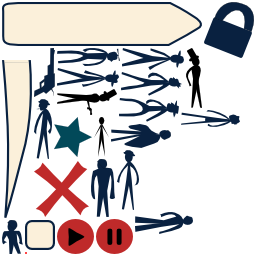
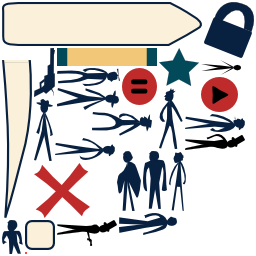
Add counters for hits

Changed region(s): [[0.125, 0.1875, 0.9688, 1.0]]

diff --git a/assets/duelist.json.js b/assets/duelist.json.js
@@ -2,5 +2,5 @@ goog.provide('lime.ASSETS.duelist.json');
 goog.require('soy');
 
 lime.ASSETS.duelist.json.data = function(opt_data) { 
-return JSON.parse("{\"frames\":{\"antag01.png\":{\"trimmed\":false,\"frame\":{\"y\":68,\"x\":57,\"w\":19,\"h\":62},\"rotated\":true,\"sourceSize\":{\"h\":62,\"w\":19},\"spriteSourceSize\":{\"y\":0,\"x\":0,\"w\":19,\"h\":62}},\"antag05.png\":{\"trimmed\":false,\"frame\":{\"y\":212,\"x\":135,\"w\":22,\"h\":58},\"rotated\":true,\"sourceSize\":{\"h\":58,\"w\":22},\"spriteSourceSize\":{\"y\":0,\"x\":0,\"w\":22,\"h\":58}},\"antag09.png\":{\"trimmed\":false,\"frame\":{\"y\":159,\"x\":91,\"w\":24,\"h\":58},\"rotated\":false,\"sourceSize\":{\"h\":58,\"w\":24},\"spriteSourceSize\":{\"y\":0,\"x\":0,\"w\":24,\"h\":58}},\"next.png\":{\"trimmed\":false,\"frame\":{\"y\":2,\"x\":2,\"w\":200,\"h\":44},\"rotated\":false,\"sourceSize\":{\"h\":44,\"w\":200},\"spriteSourceSize\":{\"y\":0,\"x\":0,\"w\":200,\"h\":44}},\"pause.png\":{\"trimmed\":false,\"frame\":{\"y\":219,\"x\":96,\"w\":37,\"h\":35},\"rotated\":false,\"sourceSize\":{\"h\":35,\"w\":37},\"spriteSourceSize\":{\"y\":0,\"x\":0,\"w\":37,\"h\":35}},\"antag010.png\":{\"trimmed\":false,\"frame\":{\"y\":72,\"x\":121,\"w\":24,\"h\":61},\"rotated\":true,\"sourceSize\":{\"h\":61,\"w\":24},\"spriteSourceSize\":{\"y\":0,\"x\":0,\"w\":24,\"h\":61}},\"protag.png\":{\"trimmed\":false,\"frame\":{\"y\":48,\"x\":186,\"w\":16,\"h\":60},\"rotated\":false,\"sourceSize\":{\"h\":60,\"w\":16},\"spriteSourceSize\":{\"y\":0,\"x\":0,\"w\":16,\"h\":60}},\"star.png\":{\"trimmed\":false,\"frame\":{\"y\":117,\"x\":54,\"w\":40,\"h\":38},\"rotated\":true,\"sourceSize\":{\"h\":38,\"w\":40},\"spriteSourceSize\":{\"y\":0,\"x\":0,\"w\":40,\"h\":38}},\"dot.png\":{\"trimmed\":false,\"frame\":{\"y\":252,\"x\":25,\"w\":2,\"h\":2},\"rotated\":false,\"sourceSize\":{\"h\":2,\"w\":2},\"spriteSourceSize\":{\"y\":0,\"x\":0,\"w\":2,\"h\":2}},\"duelist.png\":{\"trimmed\":false,\"frame\":{\"y\":117,\"x\":94,\"w\":15,\"h\":40},\"rotated\":false,\"sourceSize\":{\"h\":40,\"w\":15},\"spriteSourceSize\":{\"y\":0,\"x\":0,\"w\":15,\"h\":40}},\"dart.png\":{\"trimmed\":false,\"frame\":{\"y\":60,\"x\":2,\"w\":30,\"h\":158},\"rotated\":false,\"sourceSize\":{\"h\":158,\"w\":30},\"spriteSourceSize\":{\"y\":0,\"x\":0,\"w\":30,\"h\":158}},\"play.png\":{\"trimmed\":false,\"frame\":{\"y\":219,\"x\":57,\"w\":37,\"h\":35},\"rotated\":false,\"sourceSize\":{\"h\":35,\"w\":37},\"spriteSourceSize\":{\"y\":0,\"x\":0,\"w\":37,\"h\":35}},\"protag_second.png\":{\"trimmed\":false,\"frame\":{\"y\":48,\"x\":57,\"w\":18,\"h\":63},\"rotated\":true,\"sourceSize\":{\"h\":63,\"w\":18},\"spriteSourceSize\":{\"y\":0,\"x\":0,\"w\":18,\"h\":63}},\"antag06.png\":{\"trimmed\":false,\"frame\":{\"y\":99,\"x\":34,\"w\":18,\"h\":60},\"rotated\":false,\"sourceSize\":{\"h\":60,\"w\":18},\"spriteSourceSize\":{\"y\":0,\"x\":0,\"w\":18,\"h\":60}},\"antag04.png\":{\"trimmed\":false,\"frame\":{\"y\":220,\"x\":2,\"w\":21,\"h\":34},\"rotated\":false,\"sourceSize\":{\"h\":34,\"w\":21},\"spriteSourceSize\":{\"y\":0,\"x\":0,\"w\":21,\"h\":34}},\"gun.png\":{\"trimmed\":false,\"frame\":{\"y\":48,\"x\":34,\"w\":49,\"h\":21},\"rotated\":true,\"sourceSize\":{\"h\":21,\"w\":49},\"spriteSourceSize\":{\"y\":0,\"x\":0,\"w\":49,\"h\":21}},\"bubble.png\":{\"trimmed\":false,\"frame\":{\"y\":220,\"x\":25,\"w\":30,\"h\":30},\"rotated\":false,\"sourceSize\":{\"h\":30,\"w\":30},\"spriteSourceSize\":{\"y\":0,\"x\":0,\"w\":30,\"h\":30}},\"protag_shoot.png\":{\"trimmed\":false,\"frame\":{\"y\":89,\"x\":57,\"w\":26,\"h\":60},\"rotated\":true,\"sourceSize\":{\"h\":60,\"w\":26},\"spriteSourceSize\":{\"y\":0,\"x\":0,\"w\":26,\"h\":60}},\"lock.png\":{\"trimmed\":false,\"frame\":{\"y\":2,\"x\":204,\"w\":50,\"h\":56},\"rotated\":false,\"sourceSize\":{\"h\":56,\"w\":50},\"spriteSourceSize\":{\"y\":0,\"x\":0,\"w\":50,\"h\":56}},\"antag08.png\":{\"trimmed\":false,\"frame\":{\"y\":110,\"x\":181,\"w\":17,\"h\":59},\"rotated\":true,\"sourceSize\":{\"h\":59,\"w\":17},\"spriteSourceSize\":{\"y\":0,\"x\":0,\"w\":17,\"h\":59}},\"antag03.png\":{\"trimmed\":false,\"frame\":{\"y\":48,\"x\":122,\"w\":22,\"h\":62},\"rotated\":true,\"sourceSize\":{\"h\":62,\"w\":22},\"spriteSourceSize\":{\"y\":0,\"x\":0,\"w\":22,\"h\":62}},\"antag02.png\":{\"trimmed\":false,\"frame\":{\"y\":124,\"x\":111,\"w\":24,\"h\":60},\"rotated\":true,\"sourceSize\":{\"h\":60,\"w\":24},\"spriteSourceSize\":{\"y\":0,\"x\":0,\"w\":24,\"h\":60}},\"antag00.png\":{\"trimmed\":false,\"frame\":{\"y\":150,\"x\":117,\"w\":22,\"h\":60},\"rotated\":false,\"sourceSize\":{\"h\":60,\"w\":22},\"spriteSourceSize\":{\"y\":0,\"x\":0,\"w\":22,\"h\":60}},\"antag07.png\":{\"trimmed\":false,\"frame\":{\"y\":98,\"x\":119,\"w\":24,\"h\":60},\"rotated\":true,\"sourceSize\":{\"h\":60,\"w\":24},\"spriteSourceSize\":{\"y\":0,\"x\":0,\"w\":24,\"h\":60}},\"x.png\":{\"trimmed\":false,\"frame\":{\"y\":161,\"x\":34,\"w\":55,\"h\":56},\"rotated\":false,\"sourceSize\":{\"h\":56,\"w\":55},\"spriteSourceSize\":{\"y\":0,\"x\":0,\"w\":55,\"h\":56}}},\"meta\":{\"scale\":\"1\",\"format\":\"RGBA8888\",\"app\":\"http://www.codeandweb.com/texturepacker \",\"version\":\"1.0\",\"smartupdate\":\"$TexturePacker:SmartUpdate:61a0109edc299c4b5356a148c657f604$\",\"image\":\"duelist.png\",\"size\":{\"h\":256,\"w\":256}}}");
+return JSON.parse("{\"frames\":{\"antag01.png\":{\"trimmed\":false,\"frame\":{\"y\":99,\"x\":34,\"w\":19,\"h\":62},\"rotated\":false,\"sourceSize\":{\"h\":62,\"w\":19},\"spriteSourceSize\":{\"y\":0,\"x\":0,\"w\":19,\"h\":62}},\"antag05.png\":{\"trimmed\":false,\"frame\":{\"y\":213,\"x\":119,\"w\":22,\"h\":58},\"rotated\":true,\"sourceSize\":{\"h\":58,\"w\":22},\"spriteSourceSize\":{\"y\":0,\"x\":0,\"w\":22,\"h\":58}},\"antag09.png\":{\"trimmed\":false,\"frame\":{\"y\":151,\"x\":143,\"w\":24,\"h\":58},\"rotated\":false,\"sourceSize\":{\"h\":58,\"w\":24},\"spriteSourceSize\":{\"y\":0,\"x\":0,\"w\":24,\"h\":58}},\"next.png\":{\"trimmed\":false,\"frame\":{\"y\":2,\"x\":2,\"w\":200,\"h\":44},\"rotated\":false,\"sourceSize\":{\"h\":44,\"w\":200},\"spriteSourceSize\":{\"y\":0,\"x\":0,\"w\":200,\"h\":44}},\"pause.png\":{\"trimmed\":false,\"frame\":{\"y\":68,\"x\":122,\"w\":37,\"h\":35},\"rotated\":true,\"sourceSize\":{\"h\":35,\"w\":37},\"spriteSourceSize\":{\"y\":0,\"x\":0,\"w\":37,\"h\":35}},\"antag010.png\":{\"trimmed\":false,\"frame\":{\"y\":88,\"x\":159,\"w\":24,\"h\":61},\"rotated\":false,\"sourceSize\":{\"h\":61,\"w\":24},\"spriteSourceSize\":{\"y\":0,\"x\":0,\"w\":24,\"h\":61}},\"protag.png\":{\"trimmed\":false,\"frame\":{\"y\":134,\"x\":185,\"w\":16,\"h\":60},\"rotated\":true,\"sourceSize\":{\"h\":60,\"w\":16},\"spriteSourceSize\":{\"y\":0,\"x\":0,\"w\":16,\"h\":60}},\"star.png\":{\"trimmed\":false,\"frame\":{\"y\":48,\"x\":159,\"w\":40,\"h\":38},\"rotated\":false,\"sourceSize\":{\"h\":38,\"w\":40},\"spriteSourceSize\":{\"y\":0,\"x\":0,\"w\":40,\"h\":38}},\"dot.png\":{\"trimmed\":false,\"frame\":{\"y\":252,\"x\":25,\"w\":2,\"h\":2},\"rotated\":false,\"sourceSize\":{\"h\":2,\"w\":2},\"spriteSourceSize\":{\"y\":0,\"x\":0,\"w\":2,\"h\":2}},\"duelist.png\":{\"trimmed\":false,\"frame\":{\"y\":60,\"x\":201,\"w\":15,\"h\":40},\"rotated\":true,\"sourceSize\":{\"h\":40,\"w\":15},\"spriteSourceSize\":{\"y\":0,\"x\":0,\"w\":15,\"h\":40}},\"dart.png\":{\"trimmed\":false,\"frame\":{\"y\":60,\"x\":2,\"w\":30,\"h\":158},\"rotated\":false,\"sourceSize\":{\"h\":158,\"w\":30},\"spriteSourceSize\":{\"y\":0,\"x\":0,\"w\":30,\"h\":158}},\"play.png\":{\"trimmed\":false,\"frame\":{\"y\":77,\"x\":201,\"w\":37,\"h\":35},\"rotated\":false,\"sourceSize\":{\"h\":35,\"w\":37},\"spriteSourceSize\":{\"y\":0,\"x\":0,\"w\":37,\"h\":35}},\"protag_second.png\":{\"trimmed\":false,\"frame\":{\"y\":68,\"x\":57,\"w\":18,\"h\":63},\"rotated\":true,\"sourceSize\":{\"h\":63,\"w\":18},\"spriteSourceSize\":{\"y\":0,\"x\":0,\"w\":18,\"h\":63}},\"antag06.png\":{\"trimmed\":false,\"frame\":{\"y\":114,\"x\":185,\"w\":18,\"h\":60},\"rotated\":true,\"sourceSize\":{\"h\":60,\"w\":18},\"spriteSourceSize\":{\"y\":0,\"x\":0,\"w\":18,\"h\":60}},\"antag04.png\":{\"trimmed\":false,\"frame\":{\"y\":220,\"x\":2,\"w\":21,\"h\":34},\"rotated\":false,\"sourceSize\":{\"h\":34,\"w\":21},\"spriteSourceSize\":{\"y\":0,\"x\":0,\"w\":21,\"h\":34}},\"gun.png\":{\"trimmed\":false,\"frame\":{\"y\":48,\"x\":34,\"w\":49,\"h\":21},\"rotated\":true,\"sourceSize\":{\"h\":21,\"w\":49},\"spriteSourceSize\":{\"y\":0,\"x\":0,\"w\":49,\"h\":21}},\"bubble.png\":{\"trimmed\":false,\"frame\":{\"y\":220,\"x\":25,\"w\":30,\"h\":30},\"rotated\":false,\"sourceSize\":{\"h\":30,\"w\":30},\"spriteSourceSize\":{\"y\":0,\"x\":0,\"w\":30,\"h\":30}},\"protag_shoot.png\":{\"trimmed\":false,\"frame\":{\"y\":220,\"x\":57,\"w\":26,\"h\":60},\"rotated\":true,\"sourceSize\":{\"h\":60,\"w\":26},\"spriteSourceSize\":{\"y\":0,\"x\":0,\"w\":26,\"h\":60}},\"lock.png\":{\"trimmed\":false,\"frame\":{\"y\":2,\"x\":204,\"w\":50,\"h\":56},\"rotated\":false,\"sourceSize\":{\"h\":56,\"w\":50},\"spriteSourceSize\":{\"y\":0,\"x\":0,\"w\":50,\"h\":56}},\"antag08.png\":{\"trimmed\":false,\"frame\":{\"y\":152,\"x\":169,\"w\":17,\"h\":59},\"rotated\":false,\"sourceSize\":{\"h\":59,\"w\":17},\"spriteSourceSize\":{\"y\":0,\"x\":0,\"w\":17,\"h\":59}},\"antag03.png\":{\"trimmed\":false,\"frame\":{\"y\":88,\"x\":57,\"w\":22,\"h\":62},\"rotated\":true,\"sourceSize\":{\"h\":62,\"w\":22},\"spriteSourceSize\":{\"y\":0,\"x\":0,\"w\":22,\"h\":62}},\"antag02.png\":{\"trimmed\":false,\"frame\":{\"y\":151,\"x\":117,\"w\":24,\"h\":60},\"rotated\":false,\"sourceSize\":{\"h\":60,\"w\":24},\"spriteSourceSize\":{\"y\":0,\"x\":0,\"w\":24,\"h\":60}},\"antag00.png\":{\"trimmed\":false,\"frame\":{\"y\":138,\"x\":55,\"w\":22,\"h\":60},\"rotated\":true,\"sourceSize\":{\"h\":60,\"w\":22},\"spriteSourceSize\":{\"y\":0,\"x\":0,\"w\":22,\"h\":60}},\"antag07.png\":{\"trimmed\":false,\"frame\":{\"y\":112,\"x\":92,\"w\":24,\"h\":60},\"rotated\":true,\"sourceSize\":{\"h\":60,\"w\":24},\"spriteSourceSize\":{\"y\":0,\"x\":0,\"w\":24,\"h\":60}},\"banner.png\":{\"trimmed\":false,\"frame\":{\"y\":48,\"x\":57,\"w\":18,\"h\":100},\"rotated\":true,\"sourceSize\":{\"h\":100,\"w\":18},\"spriteSourceSize\":{\"y\":0,\"x\":0,\"w\":18,\"h\":100}},\"x.png\":{\"trimmed\":false,\"frame\":{\"y\":163,\"x\":34,\"w\":55,\"h\":56},\"rotated\":true,\"sourceSize\":{\"h\":56,\"w\":55},\"spriteSourceSize\":{\"y\":0,\"x\":0,\"w\":55,\"h\":56}}},\"meta\":{\"scale\":\"1\",\"format\":\"RGBA8888\",\"app\":\"http://www.codeandweb.com/texturepacker \",\"version\":\"1.0\",\"smartupdate\":\"$TexturePacker:SmartUpdate:643a79fa814848a815057a253e413df2$\",\"image\":\"duelist.png\",\"size\":{\"h\":256,\"w\":256}}}");
 }

diff --git a/level.js b/level.js
@@ -23,6 +23,7 @@ kchodorow.Level = function(width, height, colors, opts) {
     // 30px over 5 seconds
     this.dotVelocity_ = 'velocity' in opts? opts.velocity : .006;
     this.gunSpeed_ = 'gunSpeed' in opts? opts.gunSpeed : 1;
+    this.goal_ = 'goal' in opts? opts.goal : 3;
 };
 
 kchodorow.Level.prototype.getWidth = function() {
@@ -43,24 +44,28 @@ kchodorow.Level.prototype.getSeconds = function() {
 
 kchodorow.Level.prototype.getDotVelocity = function() {
     return this.dotVelocity_;
-}
+};
 
 kchodorow.Level.prototype.getGunSpeed = function() {
     return this.gunSpeed_;
-}
+};
 
-// TODO: goal # of shots
+kchodorow.Level.prototype.getGoal = function() {
+    return this.goal_;
+};
+
+
 kchodorow.Levels = 
     [
-     new kchodorow.Level(6, 6, 2, {velocity: .003, gunSpeed: 3}),
-     new kchodorow.Level(6, 6, 3, {velocity: .004, gunSpeed: 3}),
-     new kchodorow.Level(5, 5, 3, {velocity: .005, gunSpeed: 2}),
-     new kchodorow.Level(4, 4, 3),
-     new kchodorow.Level(3, 3, 3),
-     new kchodorow.Level(5, 5, 3),
-     new kchodorow.Level(5, 5, 3),
-     new kchodorow.Level(5, 5, 3),
-     new kchodorow.Level(5, 5, 3),
+     new kchodorow.Level(6, 6, 2, {velocity: .003, gunSpeed: 3, goal: 5}),
+     new kchodorow.Level(6, 6, 3, {velocity: .004, gunSpeed: 3, goal: 6}),
+     new kchodorow.Level(5, 5, 3, {velocity: .005, gunSpeed: 2, goal: 7}),
+     new kchodorow.Level(4, 4, 3, {goal: 6}),
+     new kchodorow.Level(3, 3, 3, {goal: 5}),
+     new kchodorow.Level(5, 5, 3, {goal: 4}),
      new kchodorow.Level(5, 5, 3, {gunSpeed: .8}),
-     new kchodorow.Level(5, 5, 3, {gunSpeed: .5})
+     new kchodorow.Level(5, 5, 3, {velocity: .007}),
+     new kchodorow.Level(5, 5, 3, {velocity: .008}),
+     new kchodorow.Level(5, 5, 3, {velocity: .007, gunSpeed: .8, goal: 4}),
+     new kchodorow.Level(5, 5, 3, {velocity: .008, gunSpeed: .5, goal: 4})
      ];

diff --git a/duelists.js b/duelists.js
@@ -326,7 +326,7 @@ var selectDot = function(p) {
 
     p.register(this);
 
-    if (p.getDotCount() >= 3) {
+    if (p.getDotCount() >= kchodorow.Levels[currentLevel].getGoal()) {
 	endGame(p.isPlayer());
     }
 };
@@ -394,24 +394,28 @@ var showLevel = function(levelNum) {
     duelists.scene.curAntag.setPosition(kAntag, kGround).setScale(1.0);
     duelists.protag.setPosition(kProtag, kGround).setScale(1.0);
 
-    var timer = new lime.Label().setFontFamily('Luckiest Guy')
-        .setText(level.getSeconds())
+    var goalCount = new lime.Label().setFontFamily('Luckiest Guy')
+        .setText("0")
         .setFontSize(24).setFontColor(9, 33, 64)
         .setPosition(-100, 150);
-    timer.numeric_time = level.getSeconds();
-    timer.last_update = 0;
-    lime.scheduleManager.schedule(runTimer, timer);
-    board.appendChild(timer);
-    board.timer = timer;
+    board.appendChild(goalCount);
+    player.setCounter(goalCount);
+
+    var enemyGoalCount = new lime.Label().setFontFamily('Luckiest Guy')
+        .setText("0")
+        .setFontSize(24).setFontColor('#BF2A2A')
+        .setPosition(350, 150);
+    board.appendChild(enemyGoalCount);
+    enemy.setCounter(enemyGoalCount);
 
     addEnemy(board);
 
     var banner_label = new lime.Label().setFontFamily('Luckiest Guy')
-        .setText("Shoot three circles of the same color in a row before the timer runs out")
+        .setText("Shoot "+level.getGoal()+" circles of the same color in a row before your opponent does")
         .setFontSize(24).setFontColor(9, 33, 64)
         .setPosition(kWidth/2, 100).setSize(kWidth-100, 150);
     duelists.scene.appendChild(banner_label);
-    
+
     duelists.scene.appendChild(board);
     board.runAction(new lime.animation.MoveTo(boardX, 120));
 };

diff --git a/player.js b/player.js
@@ -23,9 +23,14 @@ kchodorow.Player.prototype.register = function(dot) {
     } else {
 	this.dotCount_ = 1;
     }
+    this.counter_.setText(this.dotCount_)
     this.curColor_ = dot.color;
     this.lastClick_ = new goog.math.Coordinate(dot.x, dot.y);
 };
+
+kchodorow.Player.prototype.setCounter = function(counterSprite) {
+    this.counter_ = counterSprite;
+}
 
 kchodorow.Player.prototype.getLastClick = function() {
     return this.lastClick_;
